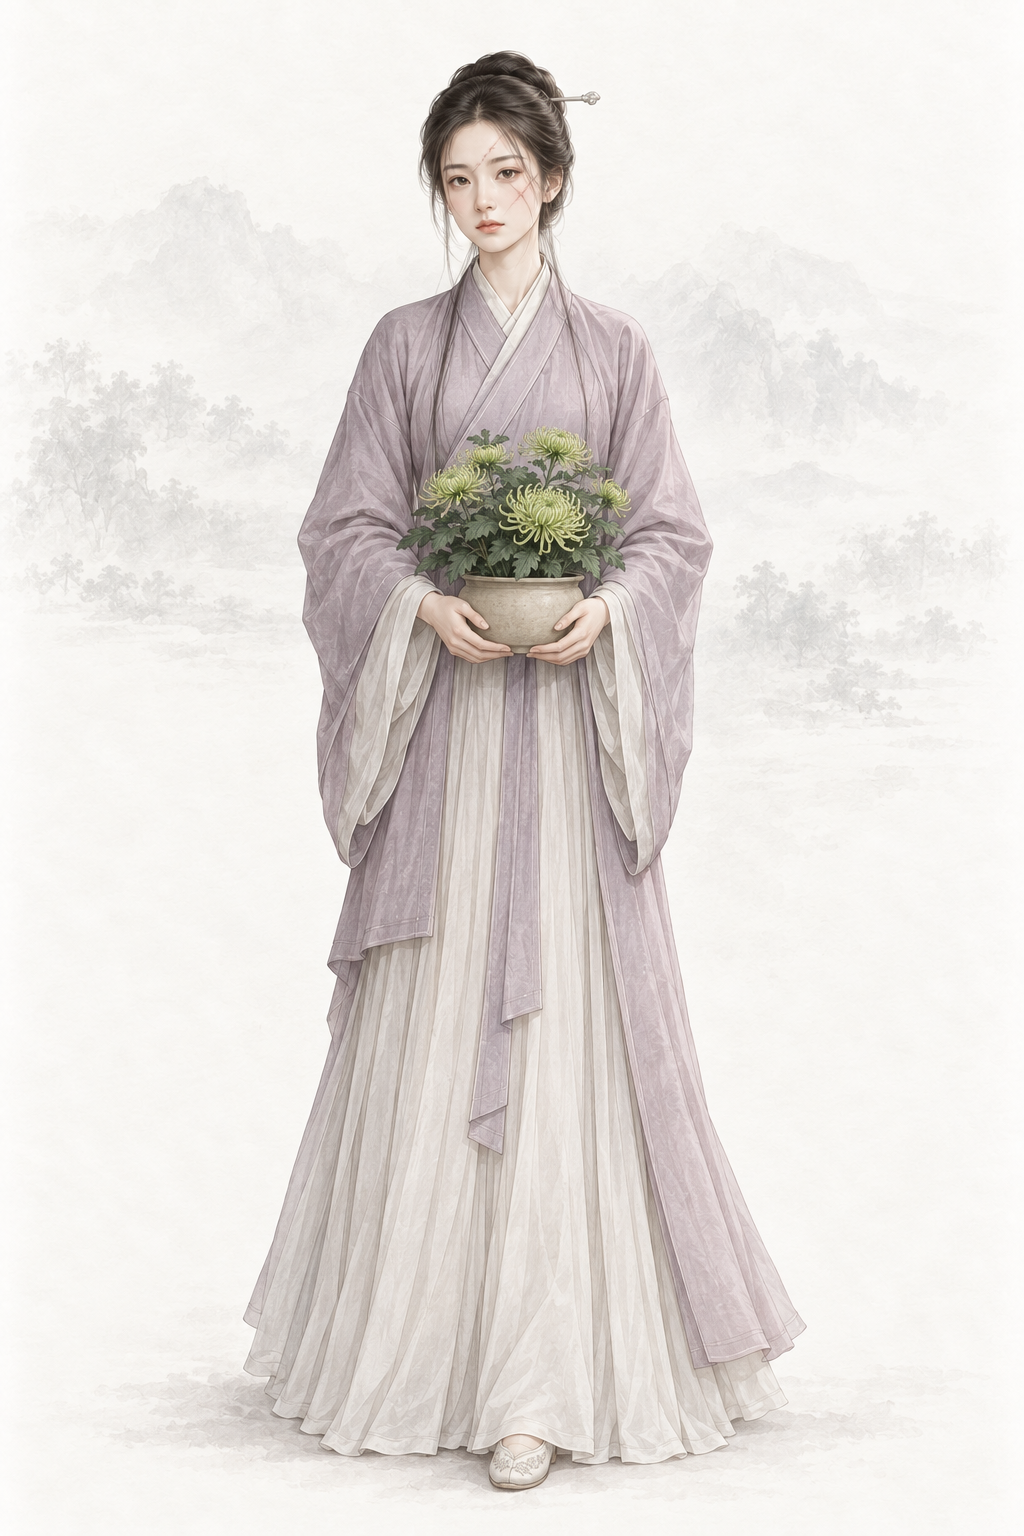
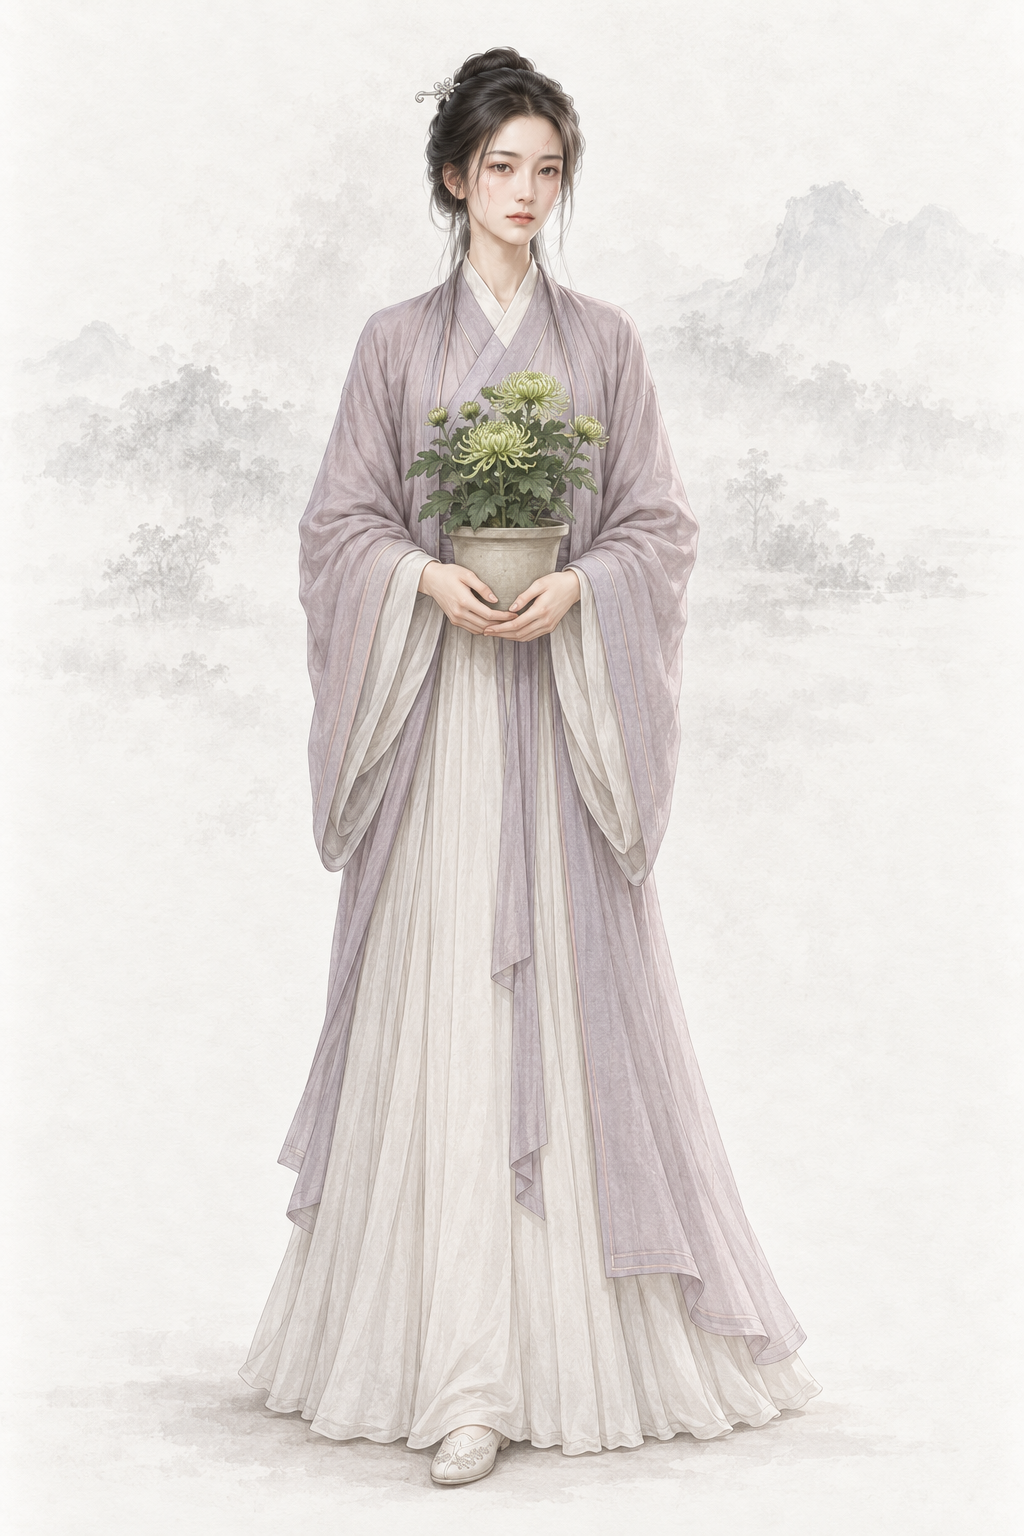
assets(character): por_npc_lingshuanghua__ch09_youth_scarred_base 凌霜华（codex · AR-32 主要角色重出，本机无剧照：文字 + 基线）
本机无剧照，文字 + 基线；提示词写回「## Gemini 提示词」，上一版留作历史，frontmatter 加 classic_ref。
疤痕较淡（额头与右颊细线），可接受

Changed region(s): [[0.125, 0.0312, 0.8438, 0.9688], [0.75, 0.125, 0.8438, 0.1562], [0.1562, 0.3438, 0.1875, 0.4062]]

diff --git a/assets/default/prompts/characters/ch09-liancheng/npc_lingshuanghua.md b/assets/default/prompts/characters/ch09-liancheng/npc_lingshuanghua.md
@@ -13,8 +13,14 @@ references:
     use: 当前仓库 manifest 为 approved（已通过）；只参考纸底、光线、笔触和设色，不沿用脸、体型、服饰或道具
 status: redo
 redo_reason: "主检出 10-02 新出的候选是磨皮网红脸（疤痕只是贴上去的两道），手捧的是黄菊；改为真实皮肤、书卷气，并换成她标志性的绿菊。"
+classic_ref:
+  version: "无剧照（本机没有2004 年《连城诀》电视剧里该角色的剧照，经典造型用文字描写）"
+  stills: []
+  note: "本机没有该角色的经典版剧照，只用文字和两张同性别基线出图（AR-32）"
 reference_upload:
 - assets/default/baseline/character/female/ref_npc_wangyuyan__ch01_base01.png
+- assets/default/baseline/character/female/ref_npc_xiaolongnv__ch03_base01.png
+codex_prompt_rev: 2026-10-02
 ---
 
 <!-- full-coverage-import:current-policy:v1 -->
@@ -27,6 +33,26 @@ reference_upload:
 # 凌霜华 · 《连城诀》（ch09）
 
 ## Gemini 提示词
+
+> 2026-10-02 AR-32 经典剧照重出（6 号出图员，codex exec · image_gen 出图）：本机没有该角色剧照：只上传两张同性别基线，经典造型用文字描写。剧照只借鉴发型、服饰、配色、标志道具、气质与面部特征，重新绘制成项目画风，不照搬照片的构图、光影和姿势；人物一律成年。提示词里不写演员名。上一版提示词保留在下一节作历史。
+
+```text
+生成一张 2:3 竖幅全身人物立绘：单人、单一视角、完整全身——头顶、双手、双脚和手中器物的两端都在画面内，四周留出自然空白；人物站姿自然，身体基本朝向正面，头部端正（不歪头、不仰不俯），镜头平视。
+【参考图】随提示词上传的两张参考图是本项目画风基线：画风、用色、光线、质感和暖浅灰纸底加淡水墨背景以它们为准；只取画风，不取长相。
+【画风】写实手绘古风人物插画，与本项目写实武侠角色立绘同一画风，像功力深厚的画师用细腻笔触画出的真实美人。手绘插画质感，不是 CG 渲染：不要过度光滑的皮肤、完美对称的五官、塑料高光、过度锐利的发丝；保留自然的笔触和细微不完美。肌肤细腻自然，看得见极细的肤理和自然的左右不对称，不磨皮、不油亮、不打粉；头发是一缕缕自然的发丝和少量碎发；布料看得出经纬纹理、厚薄和自然垂坠的褶皱，干净完整；整体设色低饱和、雅致；柔和的自然光从左上方照来，明暗过渡自然，不打舞台光、轮廓光或美颜柔光。不是照片，不是三维渲染，不是动漫或游戏 CG，也不是油画（没有厚涂笔触和画布纹理）。
+【背景】不透明的暖浅灰色纸底，只在远处有极淡的水墨远山和薄雾，大面积留白；人物与背景明暗分明、轮廓边缘干净完整（后续要自动抠图），水墨和纸纹只在背景里，不侵入人物和衣服；脚下只有很淡的一点接触阴影。
+【人物】凌霜华，《连城诀》中荆州知府凌退思的女儿、丁典倾心相守的人；为拒绝父亲逼婚而自毁容貌之后的时期。
+【年龄与体态】约二十二岁的成年女子，身材修长纤弱，体态端正。
+【经典造型】要一眼认出是凌霜华——知府千金的素雅装束、手捧一盆绿菊、清冷温婉的书卷气，脸上留着自毁容貌的旧刀疤却神情坦然；即使有疤也是端庄动人的美人。
+【面容】清秀的长鹅蛋脸；眉毛细长柔顺；眼睛明澈而温柔，眼神坚定沉静，带着书卷气；鼻梁秀挺；嘴唇薄；皮肤白皙，有真实的毛孔与纹理。脸上有几道已经愈合的淡红色刀疤，从额角斜划过左颊，清楚可见却不血腥；她坦然面对，不用头发遮掩。
+【发式】乌发整洁地收成低髻，插一支细银簪。
+【服饰】知府小姐的素雅装束——烟紫色交领长袄（右衽）、暖灰白长裙、软底鞋；衣缘只有极少的同色细线。
+【道具与姿态】双手捧着一盆绿菊花——淡绿色的细长花瓣，素陶花盆，没有字；平静站直，目光柔和。
+【不要】画面里不要任何文字、题款、印章、签名、水印、台标、边框、分格或多视图；不要第二个人；不要幼态（童颜、娃娃脸、婴儿肥、儿童或少年身材、大头小身）；不要塑料感皮肤、磨皮美颜、网红脸（尖下巴大眼高鼻的模板脸）、过度对称、浓妆、偶像式打光、蜡像感；不要照片质感、三维渲染或动漫大眼；不要歪头、斜镜头；不要多指、缺指（设定的伤残除外）、手与器物粘连或悬空；汉式交领必须右衽（穿着者的左襟压在右襟上），不要左衽（设定为少数民族服制的除外），不要水平镜像；不要现代物品、日式服饰或日本刀、发光特效、法阵或能量光。不要磨皮网红脸；不要把疤痕抹掉或画得血腥恐怖；不要黄菊或红花。清初汉族女子仍穿明式袄裙：汉式交领一律右衽（穿着者左襟压右襟），不要左衽、不要水平镜像。
+【画风基线】随提示词上传的参考图里，最后两张是本项目的立绘画风基线：只参考它们的画风、用色、光线、质感和暖浅灰纸底加淡水墨的背景处理，整体画风必须与它们一致——精细写实的数字手绘插画，不是油画，不要厚涂笔触和画布纹理。基线图只取画风，不取长相：不要照搬基线图里人物的长相、年龄、发型、服饰和姿势。
+```
+
+## 上一版 Gemini 提示词（2026-10-02 文字版；AR-32 经典剧照重出前，历史，不再用于出图）
 
 > 2026-10-02 立绘审核（B 组，见 `tools/agents/reports/REVIEW-portraits-B-ch05-09.md`）：**微调重出**（P2）。主检出 10-02 新出的候选是磨皮网红脸（疤痕只是贴上去的两道），手捧的是黄菊；改为真实皮肤、书卷气，并换成她标志性的绿菊。
 >
